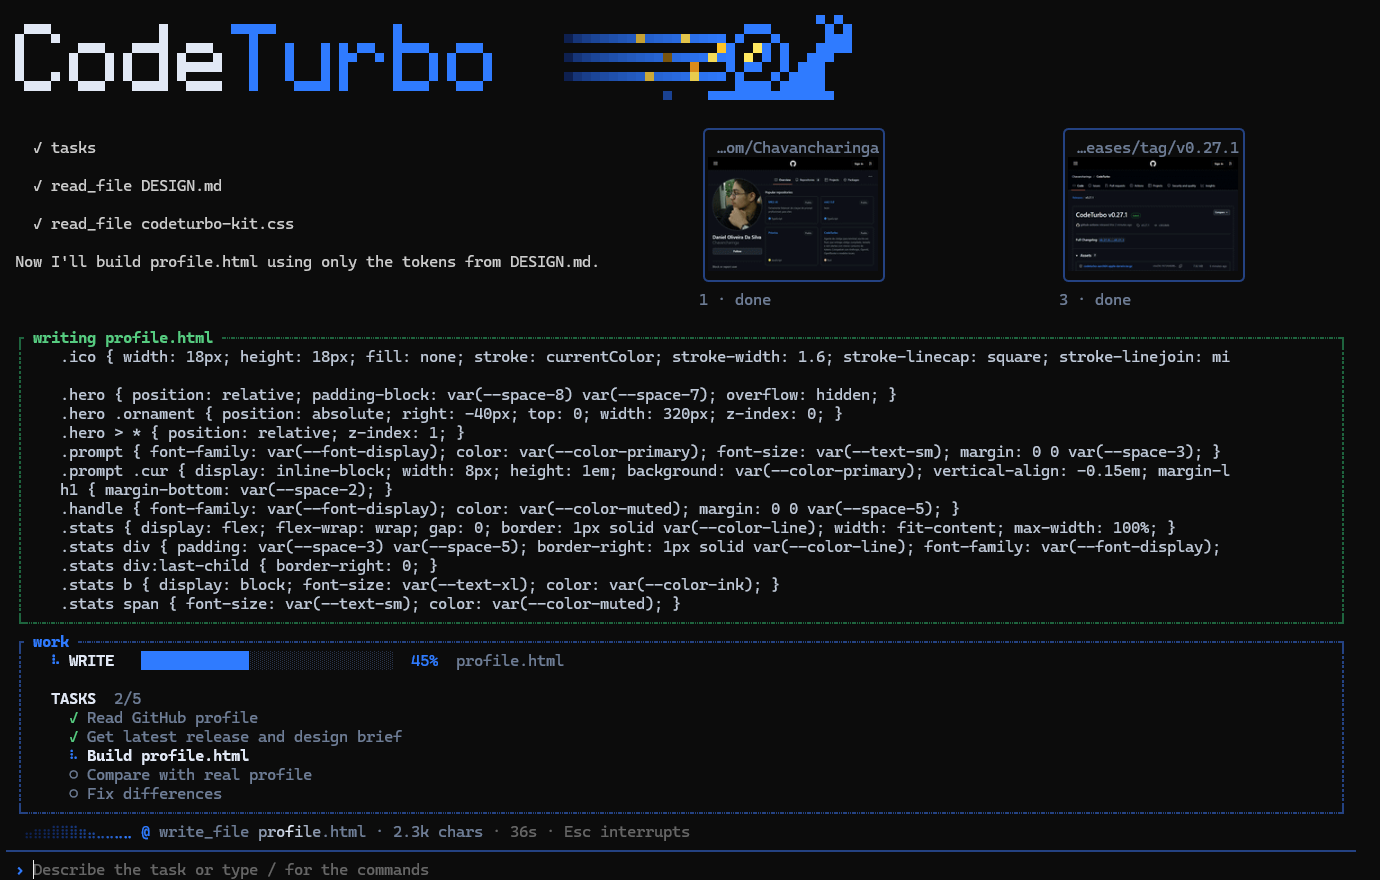
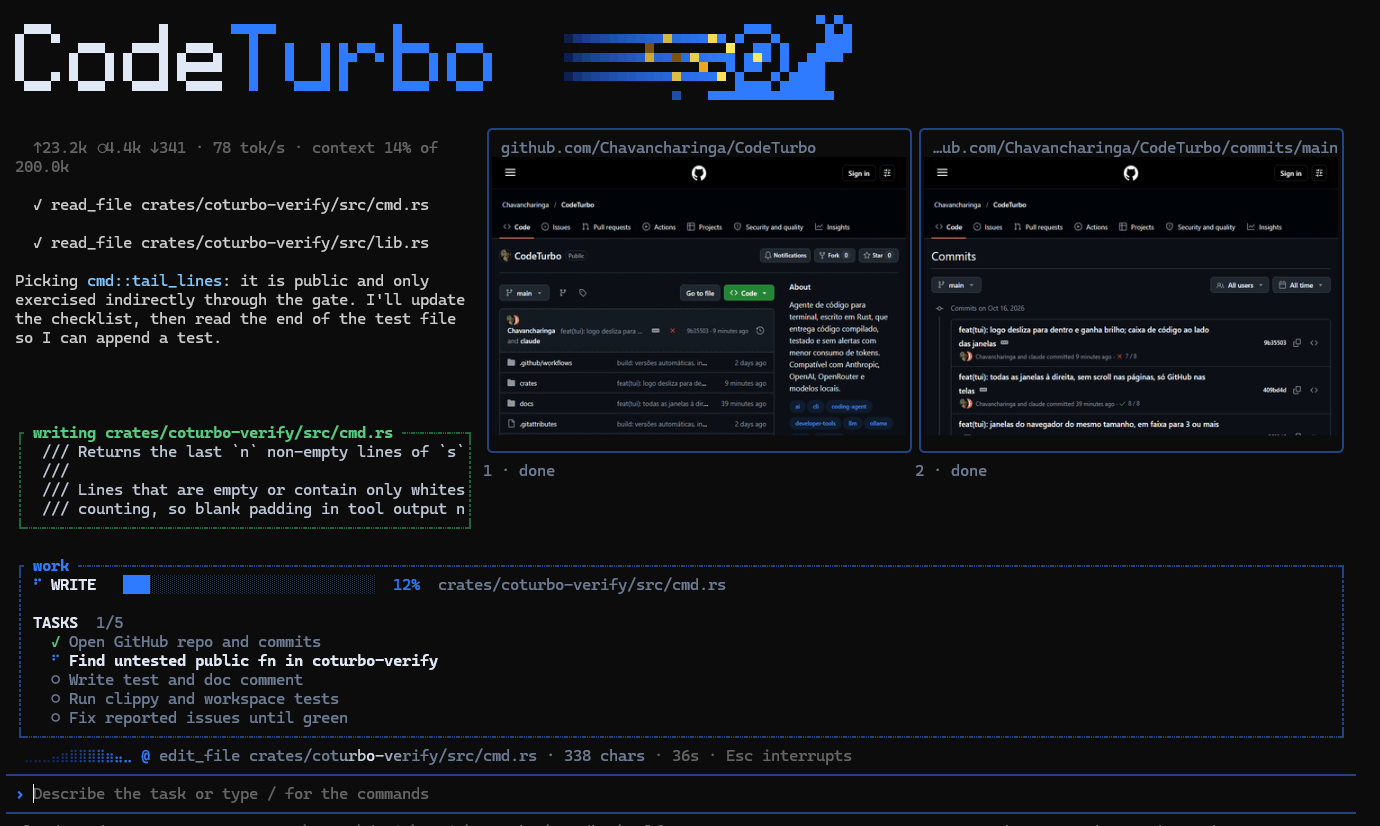
docs: galeria só com telas reais do GitHub e do próprio repositório

diff --git a/README.pt-BR.md b/README.pt-BR.md
@@ -86,19 +86,26 @@ comando.
 ## Em ação
 
 Tudo abaixo é a tela real, gravada enquanto o agente trabalhava numa conta real
-do GitHub. Nada é maquete.
+do GitHub e no próprio repositório do CodeTurbo. Nada é maquete.
 
-**Várias páginas ao mesmo tempo, lado a lado.** O agente abriu um perfil, um
-repositório, as versões e os commits juntos, cada um em seu mini navegador, e
-leu as quatro.
+**O código aparece enquanto é escrito,** numa caixa ao lado das páginas que o
+agente mantém abertas.
 
-<p align="center"><img src="docs/screens/browser-windows.png" alt="Quatro páginas reais do GitHub abertas ao mesmo tempo no terminal" width="900"></p>
+<p align="center"><img src="docs/screens/live-code.png" alt="Código sendo escrito ao vivo numa caixa, ao lado de duas páginas reais do GitHub" width="900"></p>
 
-**O código aparece enquanto é escrito.** O agente monta uma página a partir do
-que acabou de ver, e o arquivo cresce numa caixa, linha a linha, ao lado das
-páginas que ele compara.
+**Bugs encontrados e corrigidos à vista.** Cada alteração aparece como diff,
+linha a linha, enquanto a lista de tarefas avança.
 
-<p align="center"><img src="docs/screens/live-code.png" alt="Uma página de perfil sendo escrita ao vivo, com as páginas reais do GitHub ao lado" width="900"></p>
+<p align="center"><img src="docs/screens/fixing.png" alt="Diffs de duas correções, a lista de tarefas e duas páginas do GitHub" width="900"></p>
+
+**A verificação a toda velocidade.** O caracol corre com tudo enquanto a análise
+e os testes carregam, barra a barra.
+
+<p align="center"><img src="docs/screens/turbo-gate.png" alt="As barras da verificação carregando, com os testes em 91 por cento" width="900"></p>
+
+**Concluído significa verificado.** O caracol só fica verde quando tudo passou.
+
+<p align="center"><img src="docs/screens/done.png" alt="Todas as etapas concluídas e verificadas, o caracol está verde" width="900"></p>
 
 ## Instalação
 

diff --git a/README.md b/README.md
@@ -83,19 +83,26 @@ Updates are one command.
 ## In action
 
 Everything below is the real screen, recorded while the agent worked on a real
-GitHub account. Nothing is a mockup.
+GitHub account and on CodeTurbo's own repository. Nothing is a mockup.
 
-**Several pages at once, side by side.** The agent opened a profile, a
-repository, its releases and its commits together, each in its own small
-browser, and read all four.
+**The code appears as it is written,** in a box beside the pages the agent keeps
+open.
 
-<p align="center"><img src="docs/screens/browser-windows.png" alt="Four real GitHub pages open at the same time in the terminal" width="900"></p>
+<p align="center"><img src="docs/screens/live-code.png" alt="Code being written live in a box, next to two real GitHub pages" width="900"></p>
 
-**The code appears as it is written.** The agent builds a page from what it just
-saw, and the file grows in a box, line by line, next to the pages it is
-comparing.
+**Bugs found and fixed in the open.** Every change is shown as a diff, line by
+line, while the task list moves forward.
 
-<p align="center"><img src="docs/screens/live-code.png" alt="A profile page being written live, with the real GitHub pages beside it" width="900"></p>
+<p align="center"><img src="docs/screens/fixing.png" alt="Diffs of two fixes, the task list and two GitHub pages" width="900"></p>
+
+**The verification gate at full speed.** The snail goes flat out while lint and
+tests load, bar by bar.
+
+<p align="center"><img src="docs/screens/turbo-gate.png" alt="The verification bars loading, with the tests at 91 percent" width="900"></p>
+
+**Done means verified.** The snail turns green only when everything passed.
+
+<p align="center"><img src="docs/screens/done.png" alt="All steps complete, verified, the snail is green" width="900"></p>
 
 ## Install
 
